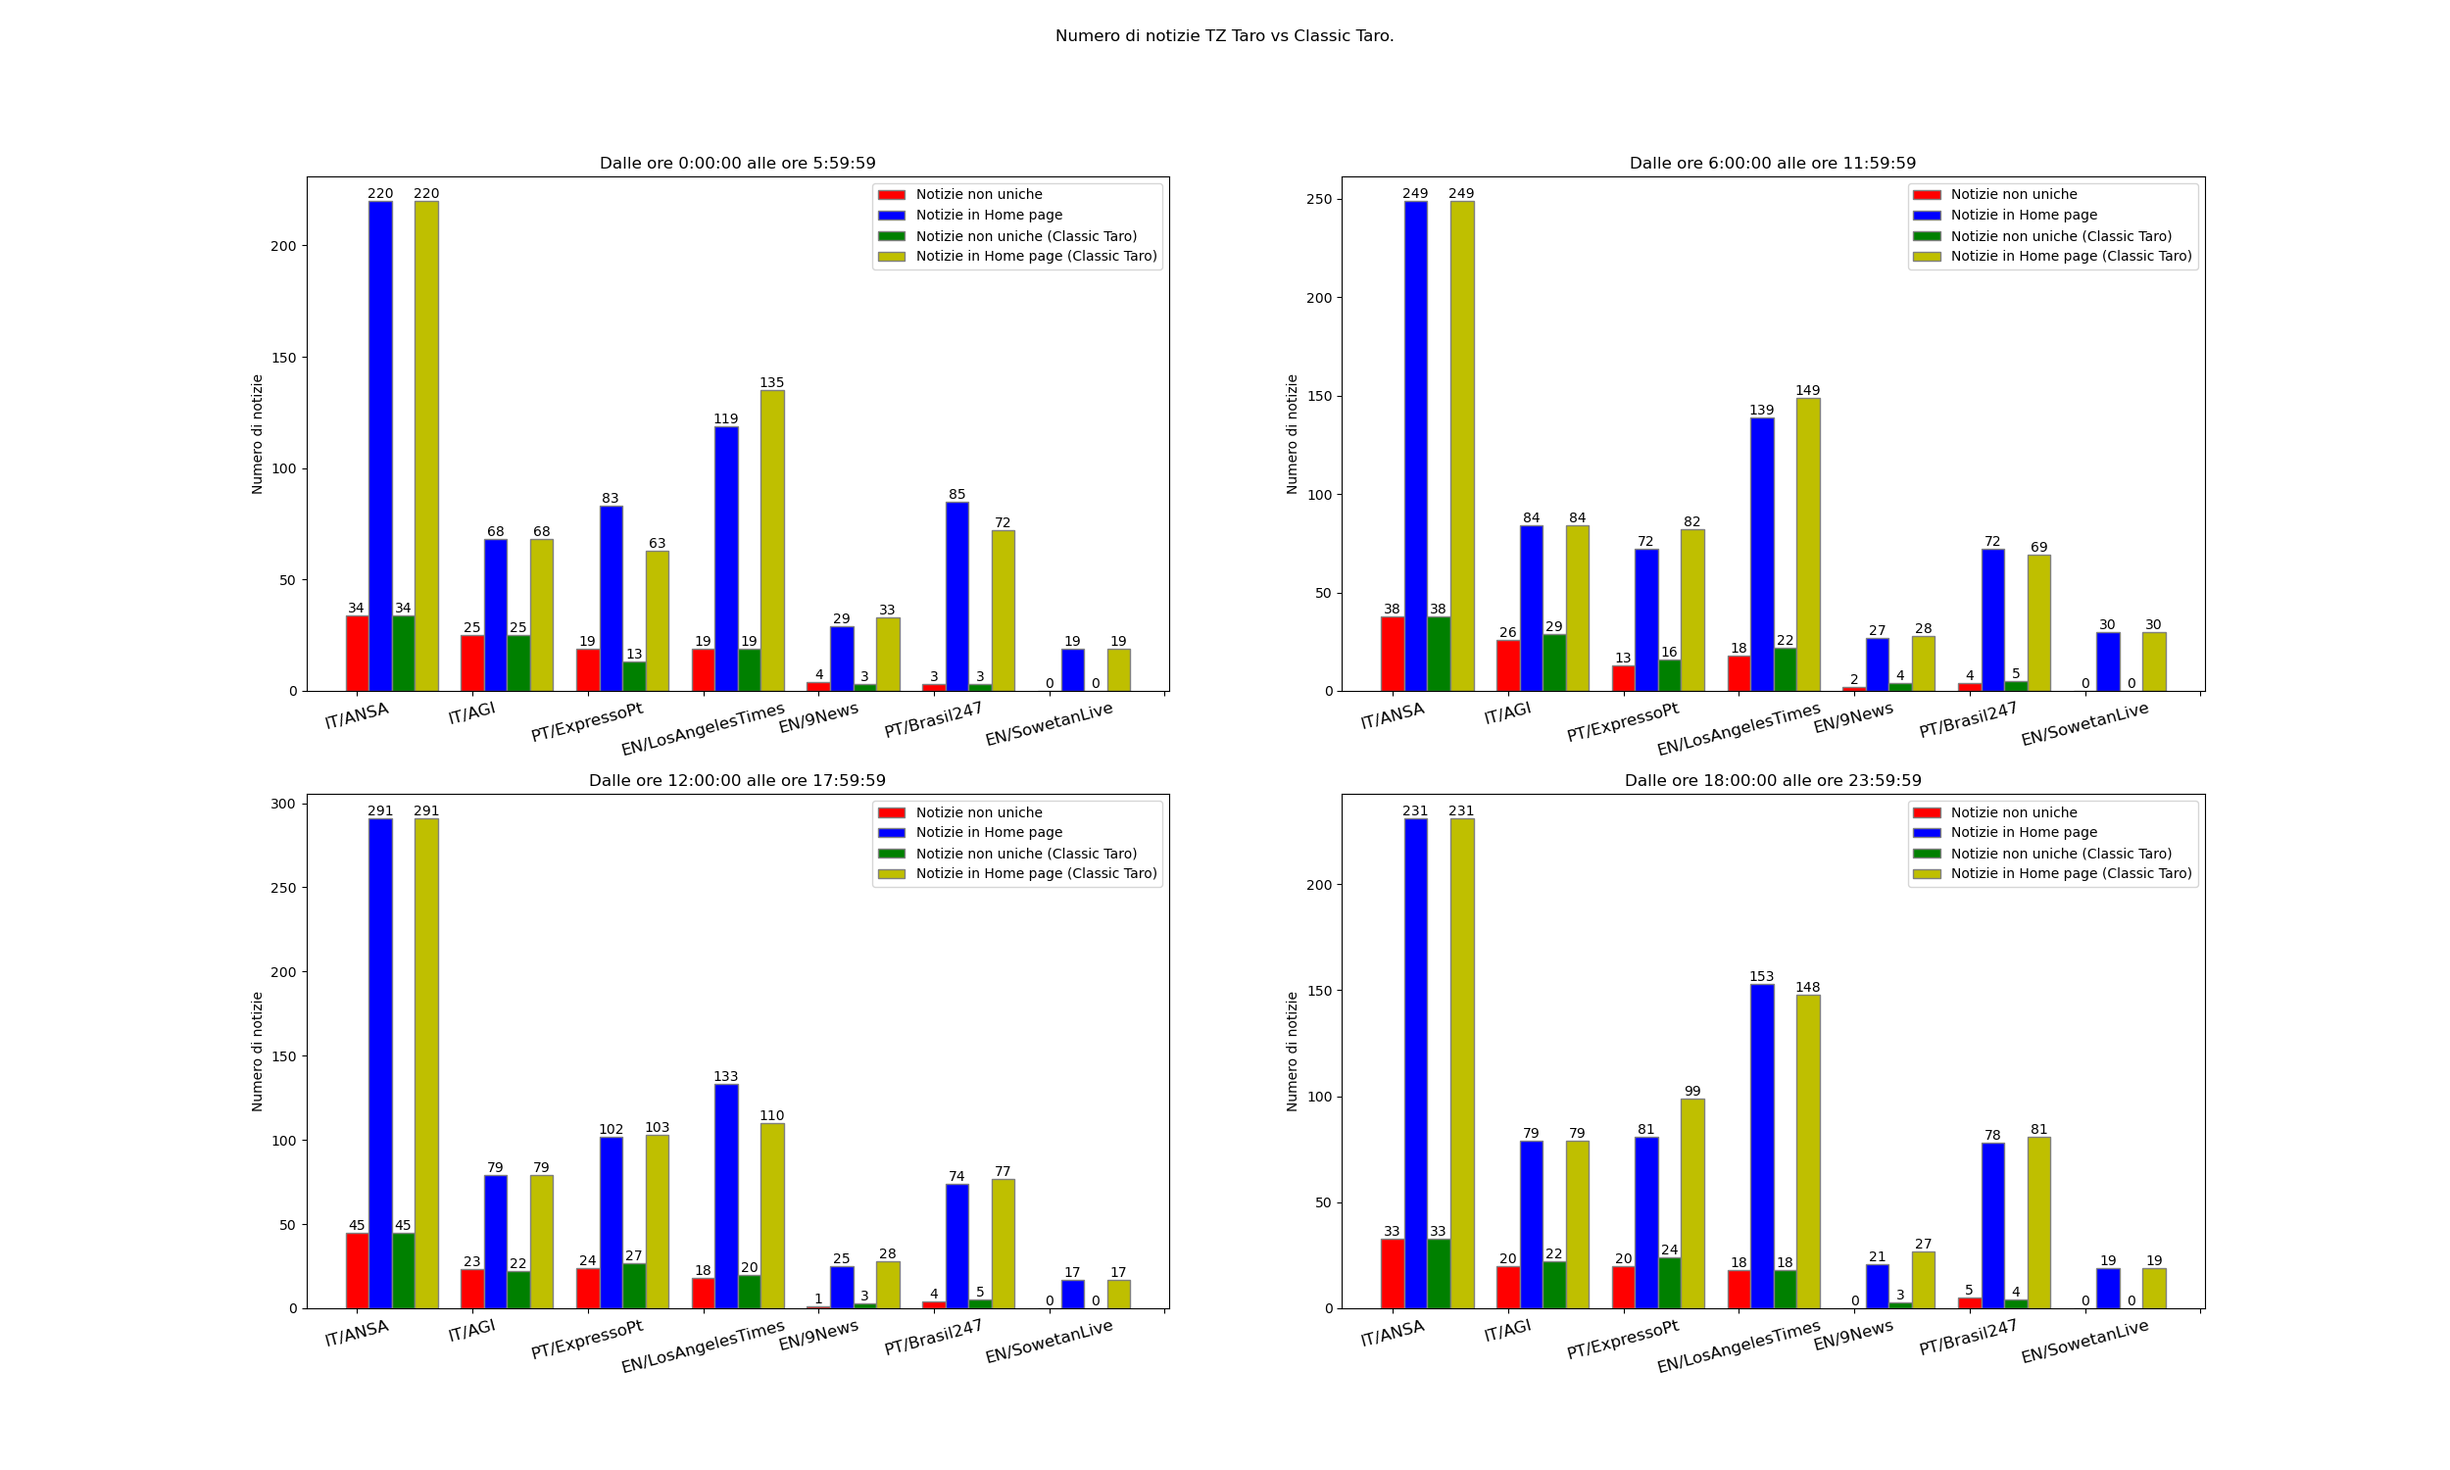
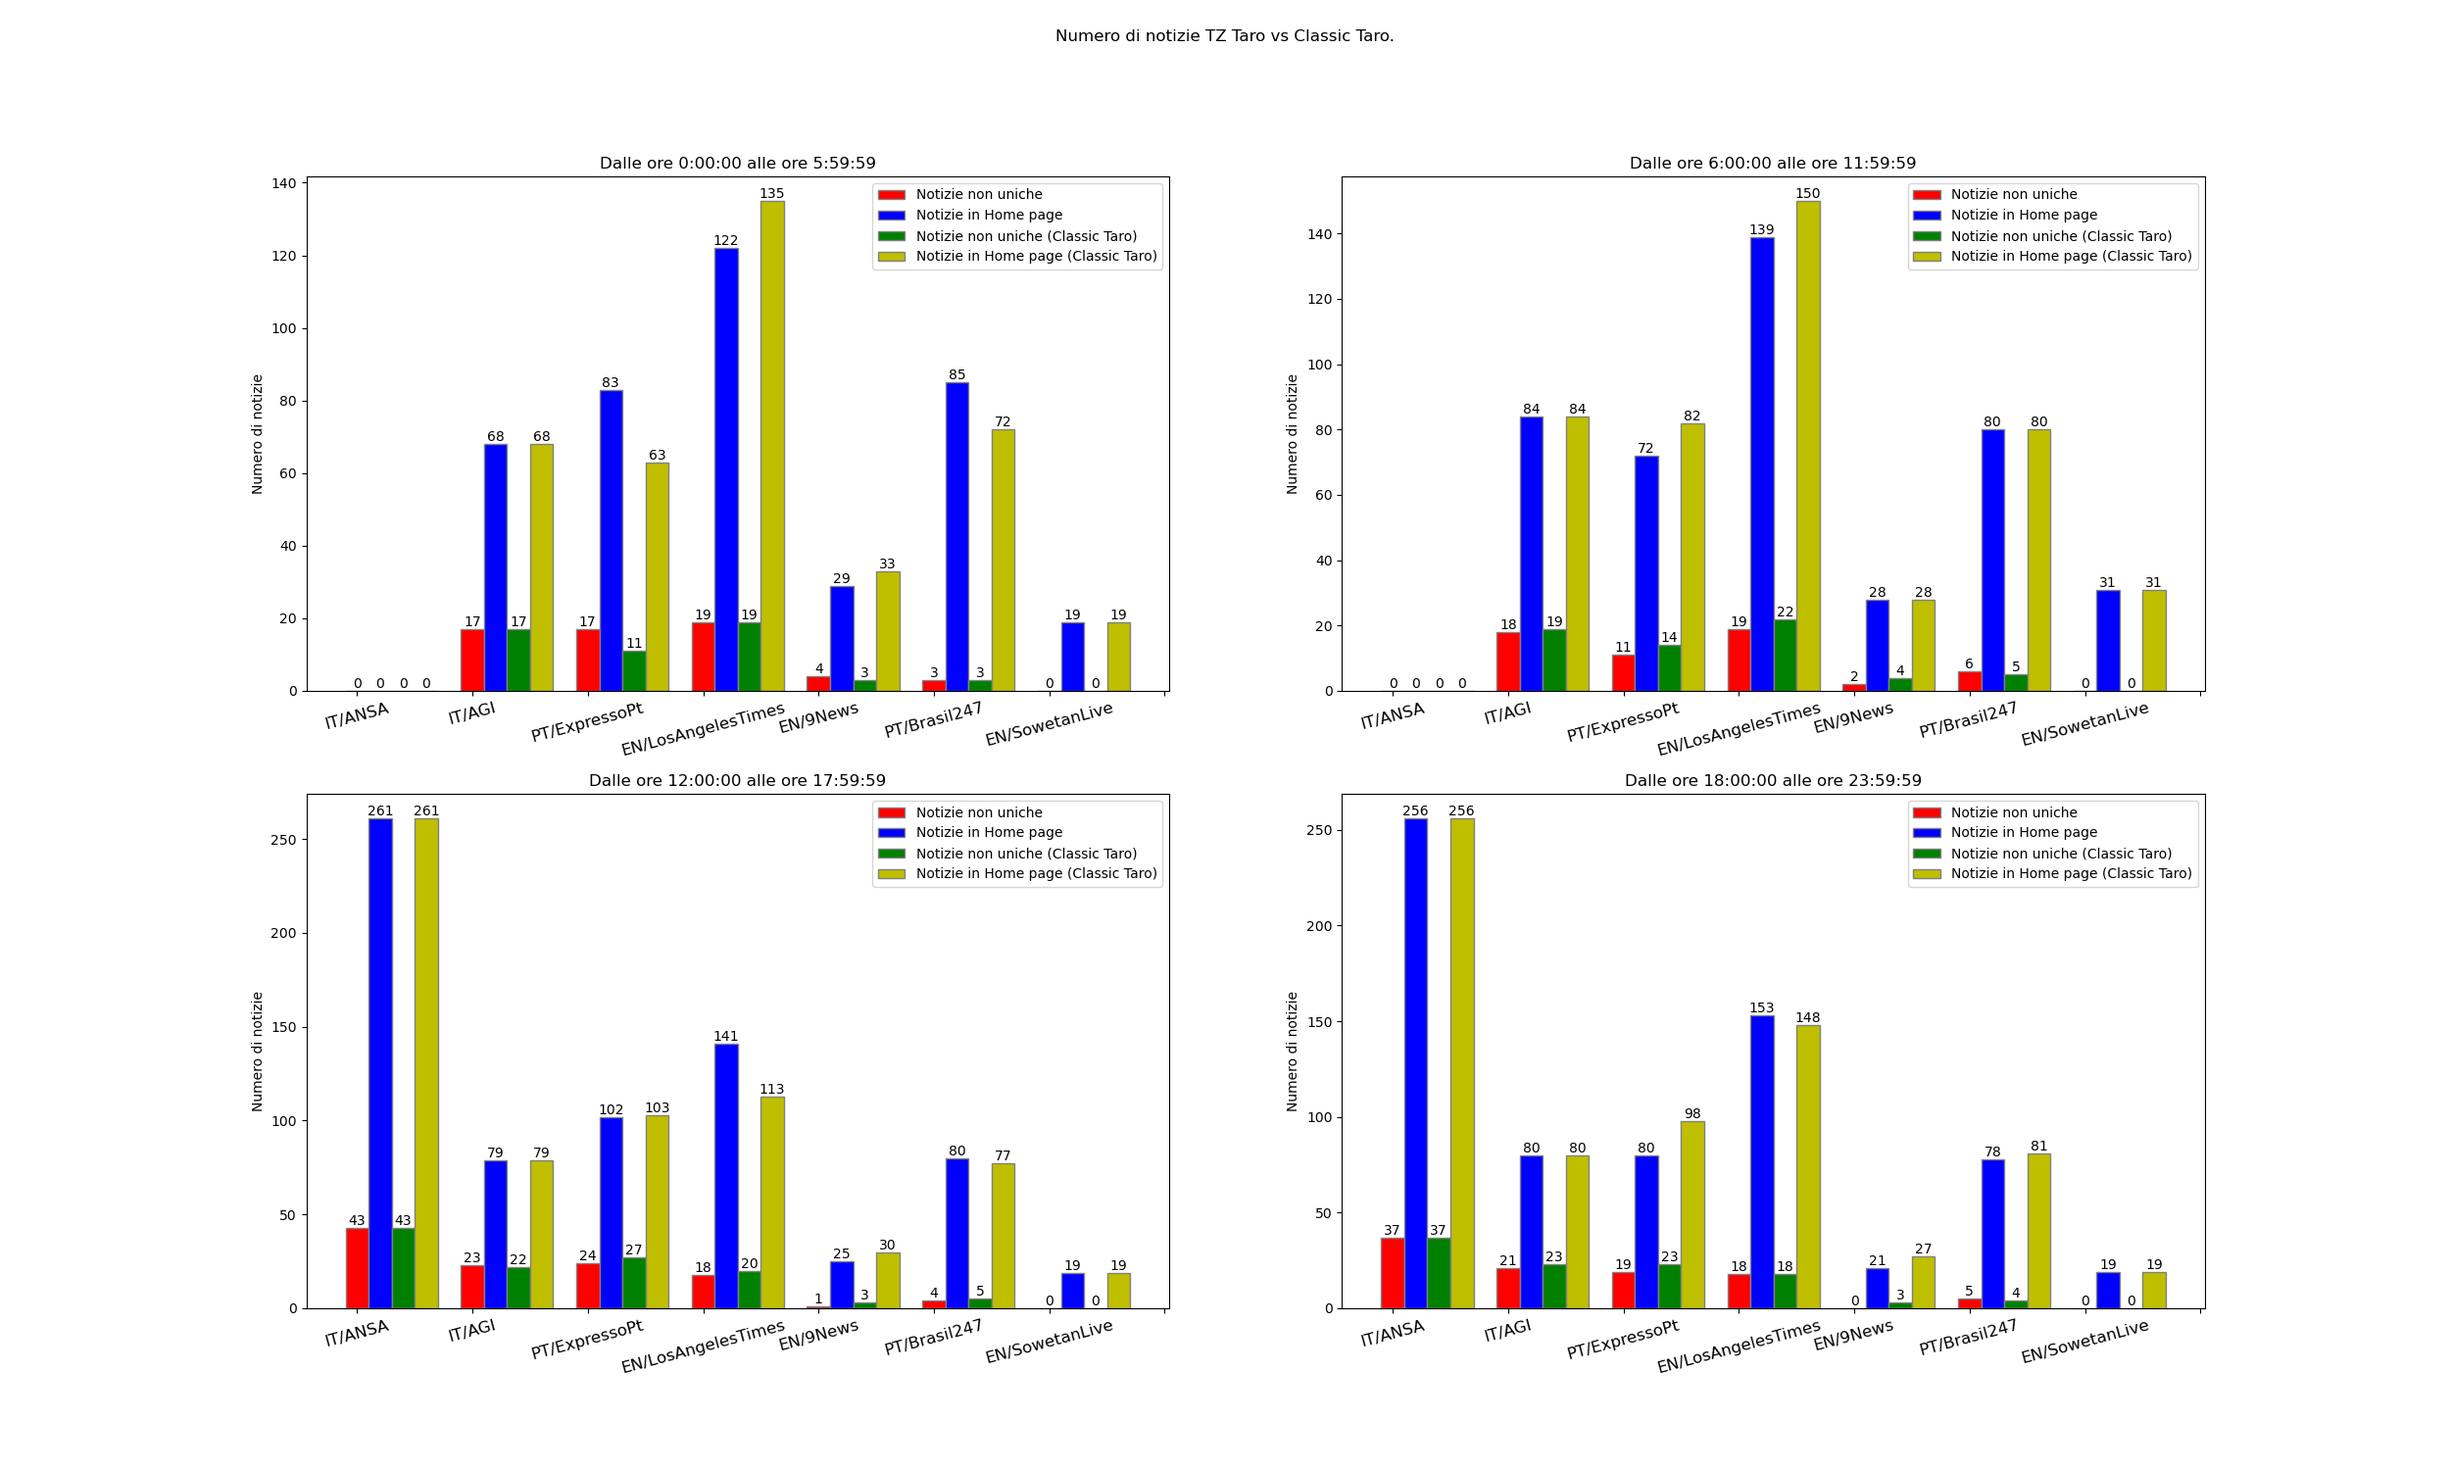
Avanzamento

diff --git a/timezone/utils.py b/timezone/utils.py
@@ -38,7 +38,7 @@ def get_newspaper_time_articles(newspaper_dir: str, date: str, start_time: str, 
             except:
                 continue
 
-        if "scraping_time" not in first_article or "timezone" not in first_article or "local_time" not in first_article or "en_title" not in first_article or "title_NER" not in first_article:
+        if "scraping_time" not in first_article or "timezone" not in first_article or "local_time" not in first_article or "en_title" not in first_article or "content_NER" not in first_article:
             continue
 
         for article in snapshot:
